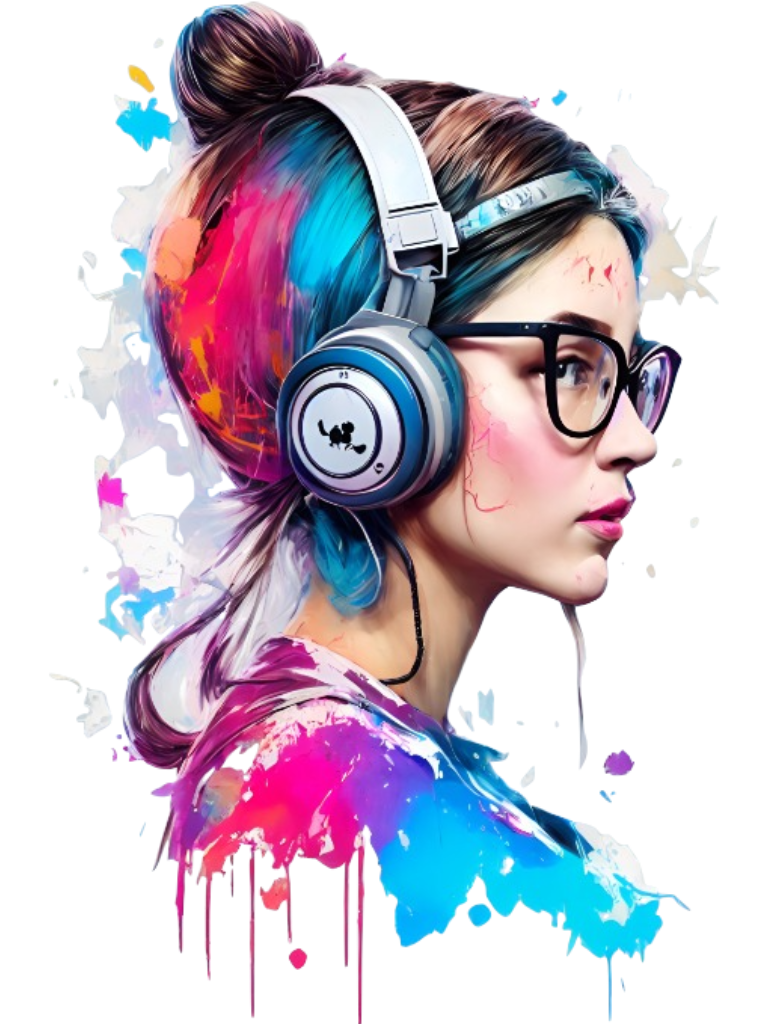
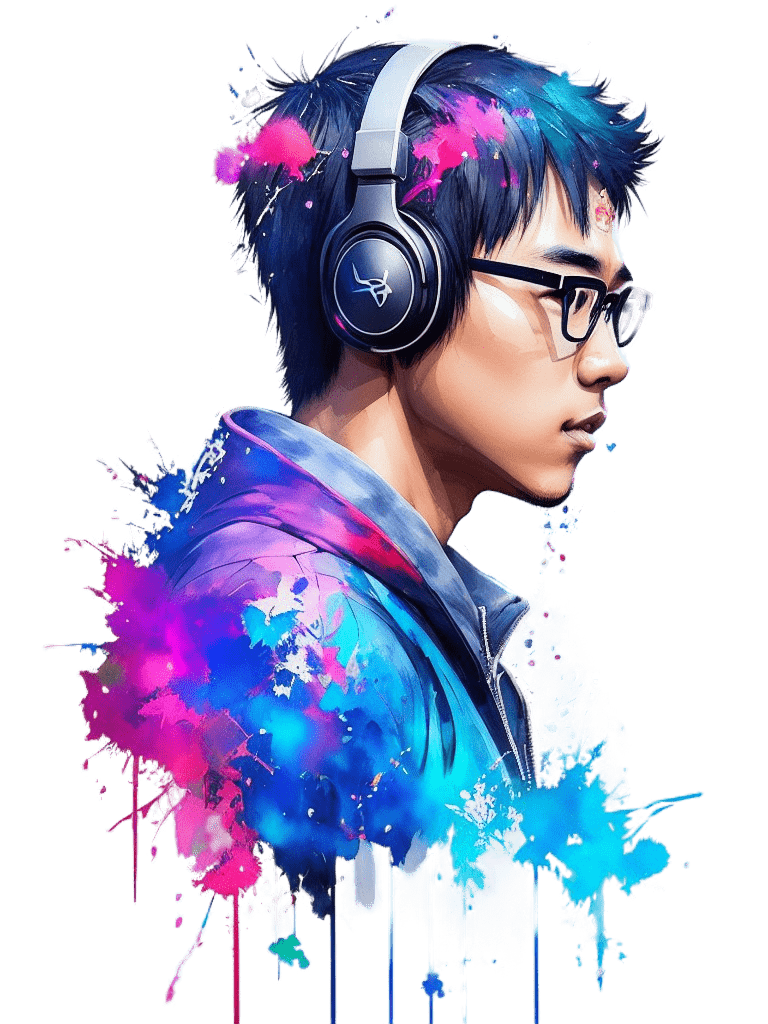
initial overwrite

diff --git a/src/components/NavBar.js b/src/components/NavBar.js
@@ -107,7 +107,7 @@ const NavBar = () => {
             <TwitterIcon />
           </motion.a> */}
           <motion.a
-            href="https://github.com/vivitian930"
+            href="https://github.com/haochen23"
             target={"_blank"}
             whileHover={{ y: -2, scale: 1.7 }}
             whileTap={{ scale: 0.9 }}
@@ -116,7 +116,7 @@ const NavBar = () => {
             <GithubIcon />
           </motion.a>
           <motion.a
-            href="https://www.linkedin.com/in/vivi-tian/"
+            href="https://www.linkedin.com/in/hao-chen-auckland/"
             target={"_blank"}
             whileHover={{ y: -2, scale: 1.7 }}
             whileTap={{ scale: 0.9 }}
@@ -125,7 +125,7 @@ const NavBar = () => {
             <LinkedInIcon />
           </motion.a>
           <motion.a
-            href="https://www.credly.com/users/jing-tian.cb19ac1e"
+            href="https://www.credly.com/users/hao-chen.c4b252a3"
             target={"_blank"}
             initial={{ scale: 1.2 }}
             whileHover={{ y: -2, scale: 1.7 }}
@@ -195,7 +195,7 @@ const NavBar = () => {
               <TwitterIcon />
             </motion.a> */}
             <motion.a
-              href="https://github.com/vivitian930"
+              href="https://github.com/haochen23"
               target={"_blank"}
               whileHover={{ y: -2 }}
               whileTap={{ scale: 0.9 }}
@@ -204,7 +204,7 @@ const NavBar = () => {
               <GithubIcon />
             </motion.a>
             <motion.a
-              href="https://www.linkedin.com/in/vivi-tian/"
+              href="https://www.linkedin.com/in/hao-chen-auckland/"
               target={"_blank"}
               whileHover={{ y: -2 }}
               whileTap={{ scale: 0.9 }}
@@ -213,7 +213,7 @@ const NavBar = () => {
               <LinkedInIcon />
             </motion.a>
             <motion.a
-              href="https://www.credly.com/users/jing-tian.cb19ac1e"
+              href="https://www.credly.com/users/hao-chen.c4b252a3"
               target={"_blank"}
               whileHover={{ y: -2 }}
               whileTap={{ scale: 0.9 }}

diff --git a/src/pages/index.js b/src/pages/index.js
@@ -14,8 +14,8 @@ export default function Home() {
   return (
     <>
       <Head>
-        <title>Vivi Tian&apos;s Portfolio</title>
-        <meta name="description" content="Vivi Tian, vivitian930" />
+        <title>Eric Chen&apos;s Portfolio</title>
+        <meta name="description" content="Eric Chen, haochen23" />
       </Head>
       <TransitionEffect />
       <main className="flex items-center text-dark w-full min-h-screen dark:text-light">
@@ -24,7 +24,7 @@ export default function Home() {
             <div className="w-[45%] md:w-full">
               <Image
                 src={ProfilePic}
-                alt="Vivi"
+                alt="Eric Chen"
                 className="w-full h-auto lg:hidden md:inline-block md:w-full "
                 priority
                 sizes="(max-width: 768) 100vw,
@@ -62,7 +62,7 @@ export default function Home() {
                   <LinkArrow className={"w-6 ml-1"} />
                 </Link>
                 <Link
-                  href="mailto:vivi.tian930@gmail.com"
+                  href="mailto:eric.chen.uoa@gmail.com"
                   target={"_blank"}
                   className="ml-4 text-lg font-medium capitalize text-dark underline dark:text-light md:text-base"
                 >
@@ -76,7 +76,7 @@ export default function Home() {
         <HireMe />
 
         {/* <div className="absolute right-8 bottom-8 inline-block w-24 md:hidden">
-          <Image src={LightBultb} alt="Vivi" className="w-full h-auto" />
+          <Image src={LightBultb} alt="Eric" className="w-full h-auto" />
         </div> */}
       </main>
     </>

diff --git a/src/pages/about.js b/src/pages/about.js
@@ -40,8 +40,8 @@ const about = () => {
   return (
     <>
       <Head>
-        <title>Vivi Tian | About Page</title>
-        <meta name="description" content="Vivi Tian, Github: vivitian930." />
+        <title>Eric Chen | About Page</title>
+        <meta name="description" content="Eric Chen, Github: haochen23." />
       </Head>
       <TransitionEffect />
       <main className="flex w-full flex-col items-center justify-center dark:text-light">
@@ -59,7 +59,7 @@ const about = () => {
                 Biography
               </h2>
               <p className="font-medium">
-                Hi, I&apos;m Vivi, an Azure Cloud and DevOps Engineer with
+                Hi, I&apos;m Eric, an Azure Cloud and DevOps Engineer with
                 experience in designing and implementing cloud-native app
                 solutions. I have a strong background in DevOps/GitOps best
                 practices, which helps organizations streamline their
@@ -89,7 +89,7 @@ const about = () => {
               <div className="absolute top-0 -right-3 -z-10 w-[102%] h-[103%] rounded-[2rem] bg-dark dark:bg-light" />
               <Image
                 src={profilePic}
-                alt="Vivi Tian"
+                alt="Eric Chen"
                 className="w-full h-auto rounded-2xl"
                 priority
                 sizes="(max-width: 768) 100vw,

diff --git a/src/pages/projects.js b/src/pages/projects.js
@@ -157,8 +157,8 @@ const projects = () => {
   return (
     <>
       <Head>
-        <title>Vivi Tian | Projects Page</title>
-        <meta name="description" content="Vivi Tian, Github: vivitian930." />
+        <title>Eric Chen | Projects Page</title>
+        <meta name="description" content="Eric Chen, Github: haochen23." />
       </Head>
       <TransitionEffect />
       <main className="w-full mb-16 flex flex-col items-center justify-center dark:text-light">

diff --git a/src/components/HireMe.js b/src/components/HireMe.js
@@ -15,7 +15,7 @@ const HireMe = () => {
           className={"fill-dark animate-spin-slow dark:fill-light"}
         />
         <Link
-          href="mailto:vivitian930@me.com"
+          href="mailto:eric.chen.uoa@gmail.com"
           className="flex items-center justify-center
         absolute left-1/2 top-1/2 -translate-x-1/2 -translate-y-1/2
         bg-dark text-light shadow-md border border-solid border-dark

diff --git a/src/components/Footer.js b/src/components/Footer.js
@@ -19,11 +19,11 @@ const Footer = () => {
           </span>{" "}
           By&nbsp;
           <Link
-            href="https://github.com/vivitian930"
+            href="https://github.com/haochen23"
             className="underline underline-offset-2"
             target={"_blank"}
           >
-            Vivi Tian
+            Eric Chen
           </Link>
         </div>
         <Link

diff --git a/src/components/Logo.js b/src/components/Logo.js
@@ -26,7 +26,7 @@ const Logo = () => {
           }
         }}
       >
-        VT
+        EC
       </MontionLink>
     </div>
   )
